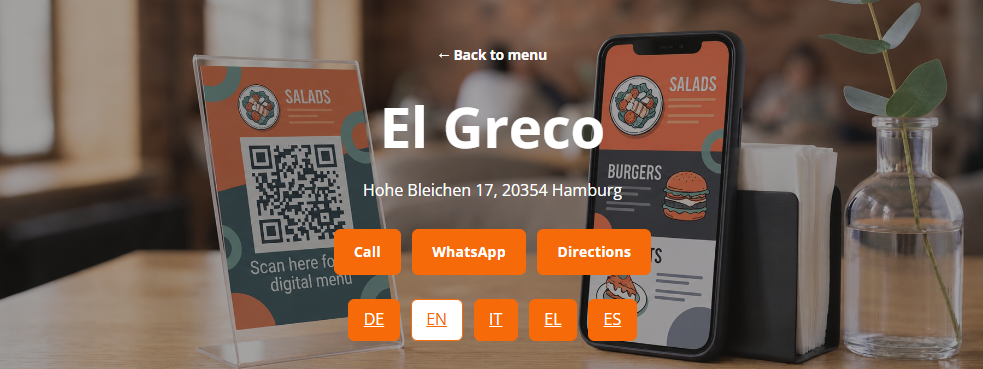
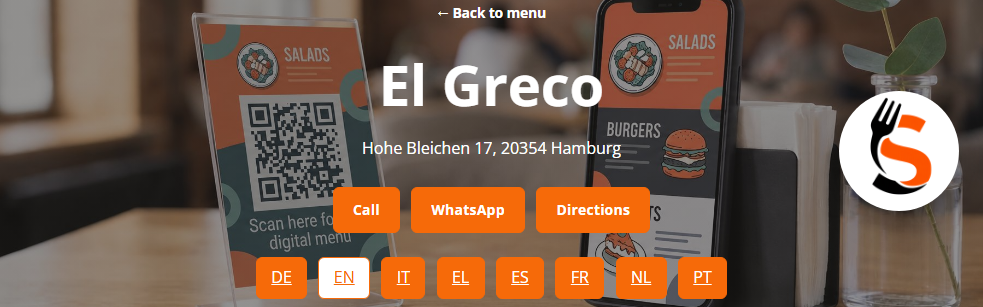
feat(home): menu screenshot with all 8 languages, German version for /de/
The "after" card on the homepage showed the El Greco menu with only
DE/EN/IT/EL/ES. New screenshots from the live menu show all 8 languages
(incl. FR, NL, PT) and the logo; the German homepage now gets its own
version with German buttons. Cropped to exactly 16:5, the card's aspect
ratio, so the language row is no longer cut off.

diff --git a/index.html b/index.html
@@ -167,7 +167,7 @@
         <div class="compare-card compare-card--after">
           <span class="compare-tag compare-tag--after" data-i18n="compare_after_tag">After</span>
           <div class="compare-photo">
-            <img src="assets/images/menu-after-el-greco.png" alt="QR code digital menu shown on a smartphone in a restaurant" loading="lazy">
+            <img src="assets/images/menu-after-el-greco.png?v=8-langs" alt="QR code digital menu shown on a smartphone in a restaurant" loading="lazy">
           </div>
           <h3 data-i18n="compare_after_title">Smart QR digital menu</h3>
           <ul class="compare-list">

diff --git a/de/index.html b/de/index.html
@@ -166,7 +166,7 @@
         <div class="compare-card compare-card--after">
           <span class="compare-tag compare-tag--after">Nachher</span>
           <div class="compare-photo">
-            <img src="../assets/images/menu-after-el-greco.png" alt="QR-Code-Digitalmenü auf einem Smartphone in einem Restaurant" loading="lazy">
+            <img src="../assets/images/menu-after-el-greco-de.png?v=8-langs" alt="QR-Code-Digitalmenü auf einem Smartphone in einem Restaurant" loading="lazy">
           </div>
           <h3>Smartes QR-Digitalmenü</h3>
           <ul class="compare-list">
